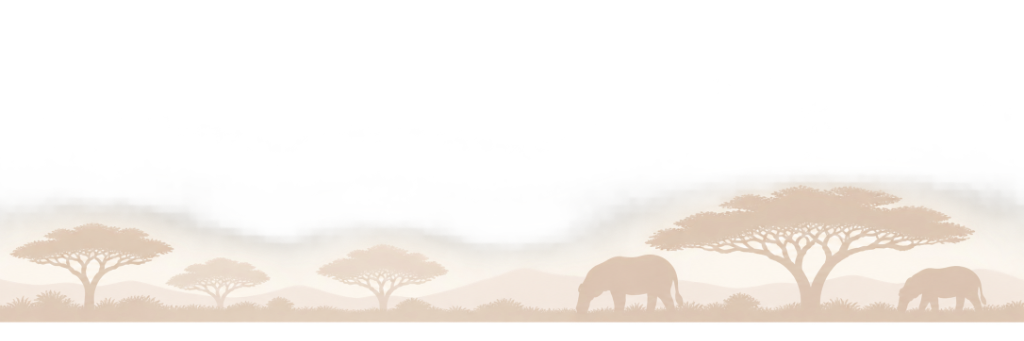
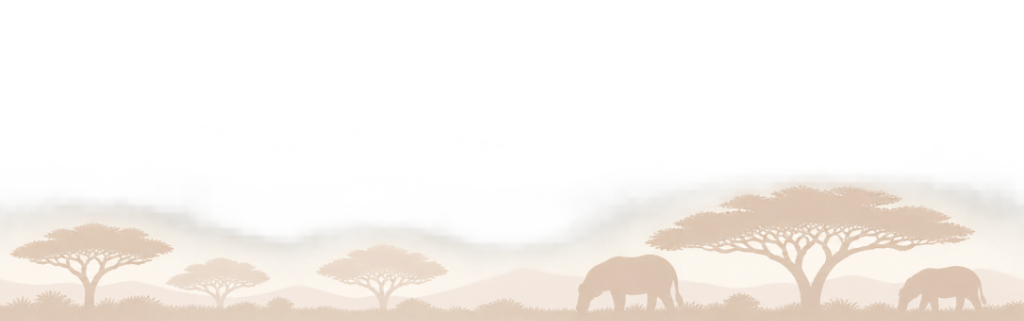
Zambia page hhgg

diff --git a/src/pages/Zambia.jsx b/src/pages/Zambia.jsx
@@ -282,33 +282,23 @@ export function Zambia() {
                   </div>
                 </div>
 
-                <div className="flex items-start gap-2.5 rounded-xl bg-sand/70 p-3.5">
-                  <Info className="size-4 shrink-0 text-copper mt-0.5" aria-hidden="true" />
-                  <div>
-                    <p className="text-[10px] font-bold uppercase tracking-wider text-primary">
-                      Tour Guide Service
-                    </p>
-                    <p className="mt-0.5 text-xs text-muted-foreground">
-                      {travelingOverland.tourGuideUnavailable}
-                    </p>
-                  </div>
-                </div>
+
               </div>
             </div>
           </Reveal>
         </div>
       </section>
 
-      {/* 5. Practical Guide — silhouette sits flush against the site footer */}
-      <section className="relative isolate mb-0 overflow-hidden bg-cream pt-16 sm:pt-20 lg:pt-24">
+      {/* 5. Practical Guide — landscape strip pinned to the footer edge */}
+      <section className="relative isolate overflow-hidden bg-cream pt-16 sm:pt-20 lg:pt-24">
         <img
           src="/Pictures/Background/zambia_practical_guide_bg.png"
           alt=""
           aria-hidden="true"
-          className="pointer-events-none absolute inset-0 -z-10 size-full object-cover object-bottom"
+          className="pointer-events-none absolute inset-x-0 bottom-0 -z-10 w-full"
         />
 
-        <div className="relative z-10 mx-auto max-w-4xl px-4 pb-28 text-center sm:px-6 sm:pb-32 lg:px-8 lg:pb-36">
+        <div className="relative z-10 mx-auto max-w-4xl px-4 pb-36 text-center sm:px-6 sm:pb-40 lg:px-8 lg:pb-44">
           <Reveal className="flex flex-col items-center">
             <span className="grid size-12 place-items-center rounded-full bg-sand text-copper shadow-xs">
               <BookOpen className="size-6" aria-hidden="true" />

diff --git a/src/data/zambiaContent.js b/src/data/zambiaContent.js
@@ -142,10 +142,10 @@ export const ZAMBIA_DATA = {
     neighbours: ['Tanzania', 'Malawi', 'Zimbabwe', 'Botswana', 'Namibia', 'Mozambique'],
     note: 'Routes, transport connections and border procedures vary depending on your journey.',
     researchText:
-      'Rather than providing all the details here, we can research the specific route you are planning.',
+      '',
     planRouteTo: '/travel-planner?destination=zambia',
     borderGuideTo: '/travel-planner/border-crossing-guide?from=zambia',
-    tourGuideUnavailable: 'Tour Guide service is not available in Zambia at this time.',
+    tourGuideUnavailable: '',
   },
 
   practicalGuideBanner: {
